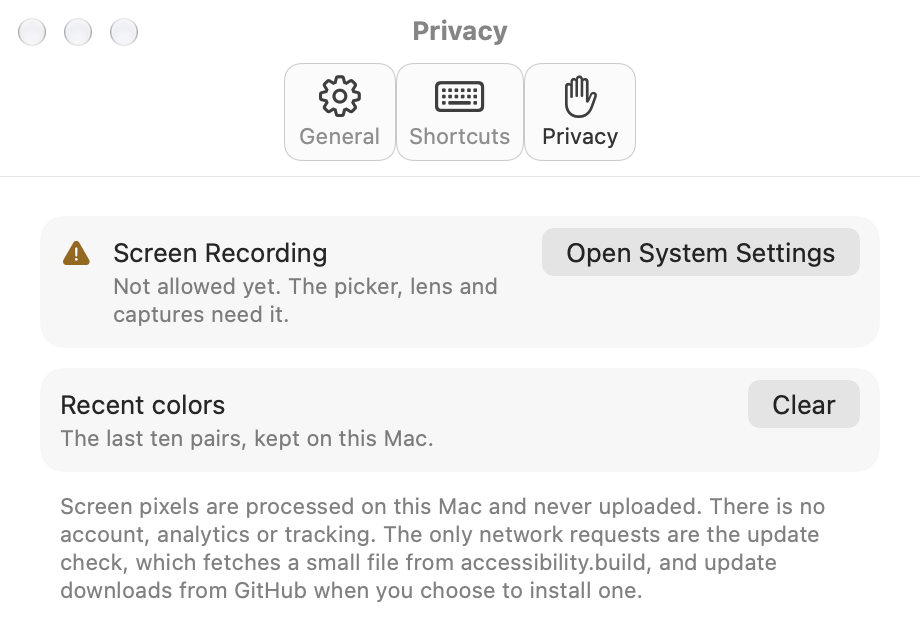
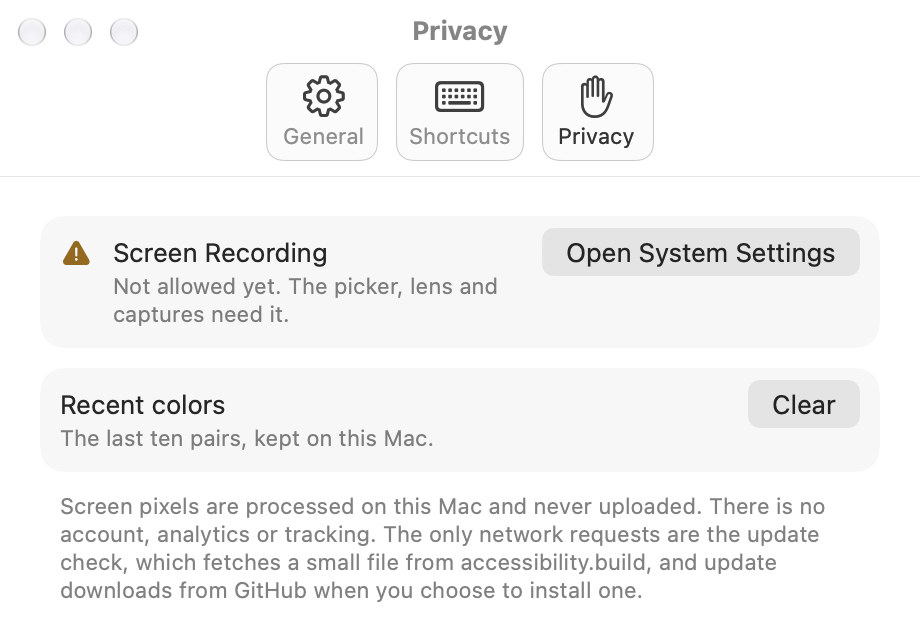
Separate toolbar items that macOS 26 was joining together
On macOS 26 and later, toolbar items placed side by side are drawn as one
joined group. The Settings tabs (General, Shortcuts, Privacy) touched each
other, and the Session Log put the destructive Clear in the same group as
Copy and Save. The settings tab controller now places a standard space
item between tabs, and the Session Log uses fixed toolbar spacers to keep
Remove, the export pair and Clear apart. Earlier macOS versions do not
group toolbar items, so nothing changes there.

Changed region(s): [[0.3043, 0.0932, 0.4261, 0.2484], [0.5783, 0.1242, 0.7, 0.2484]]

diff --git a/App/Settings/SettingsView.swift b/App/Settings/SettingsView.swift
@@ -23,10 +23,33 @@ final class SettingsTabsController: NSTabViewController {
             // Settings-style preference windows do.
             host.sizingOptions = [.preferredContentSize]
             let item = NSTabViewItem(viewController: host)
+            // Stable identifiers, so the toolbar code can tell tabs apart
+            // from system items.
+            item.identifier = "settings.\(tab.title.lowercased())"
             item.label = tab.title
             item.image = NSImage(systemSymbolName: tab.symbol, accessibilityDescription: tab.title)
             addTabViewItem(item)
         }
+    }
+
+    // On macOS 26 and later, toolbar items placed side by side are drawn as
+    // one joined group, so the three tabs touched. A standard space item
+    // between neighbours separates them, as in Apple's own settings windows.
+    override func toolbarDefaultItemIdentifiers(_ toolbar: NSToolbar) -> [NSToolbarItem.Identifier] {
+        let identifiers = super.toolbarDefaultItemIdentifiers(toolbar)
+        let tabs = Set(tabViewItems.compactMap { $0.identifier as? String }.map { NSToolbarItem.Identifier($0) })
+        var spaced: [NSToolbarItem.Identifier] = []
+        for id in identifiers {
+            if tabs.contains(id), let last = spaced.last, tabs.contains(last) {
+                spaced.append(.space)
+            }
+            spaced.append(id)
+        }
+        return spaced
+    }
+
+    override func toolbarAllowedItemIdentifiers(_ toolbar: NSToolbar) -> [NSToolbarItem.Identifier] {
+        super.toolbarAllowedItemIdentifiers(toolbar) + [.space]
     }
 
     override func tabView(_ tabView: NSTabView, didSelect tabViewItem: NSTabViewItem?) {

diff --git a/App/SessionLog/SessionLogView.swift b/App/SessionLog/SessionLogView.swift
@@ -59,6 +59,11 @@ struct SessionLogView: View {
                 .disabled(selection.isEmpty)
                 .help("Remove the selected entries (Delete)")
             }
+            // macOS 26 joins adjacent toolbar items into one group; spacers
+            // keep Remove, the export pair and the destructive Clear apart.
+            if #available(macOS 26.0, *) {
+                ToolbarSpacer(.fixed, placement: .primaryAction)
+            }
             ToolbarItem(placement: .primaryAction) {
                 Button {
                     Pasteboard.copy(store.markdown)
@@ -76,6 +81,9 @@ struct SessionLogView: View {
                 .keyboardShortcut("s", modifiers: .command)
                 .disabled(store.entries.isEmpty)
                 .help("Save the session as a Markdown file")
+            }
+            if #available(macOS 26.0, *) {
+                ToolbarSpacer(.fixed, placement: .primaryAction)
             }
             ToolbarItem(placement: .primaryAction) {
                 Button { confirmsClear = true } label: {

diff --git a/App/Support/Snapshot.swift b/App/Support/Snapshot.swift
@@ -72,6 +72,8 @@ enum Snapshot {
 
         Windows.showSettings()
         if let w = Windows.window("settings"), let tabs = w.contentViewController as? NSTabViewController {
+            let items = (w.toolbar?.items ?? []).map(\.itemIdentifier.rawValue).joined(separator: "\n")
+            try? (items + "\n").write(to: dir.appendingPathComponent("toolbar-settings.txt"), atomically: true, encoding: .utf8)
             for (i, tab) in SettingsTabsController.tabs.enumerated() {
                 tabs.selectedTabViewItemIndex = i
                 await settle()
